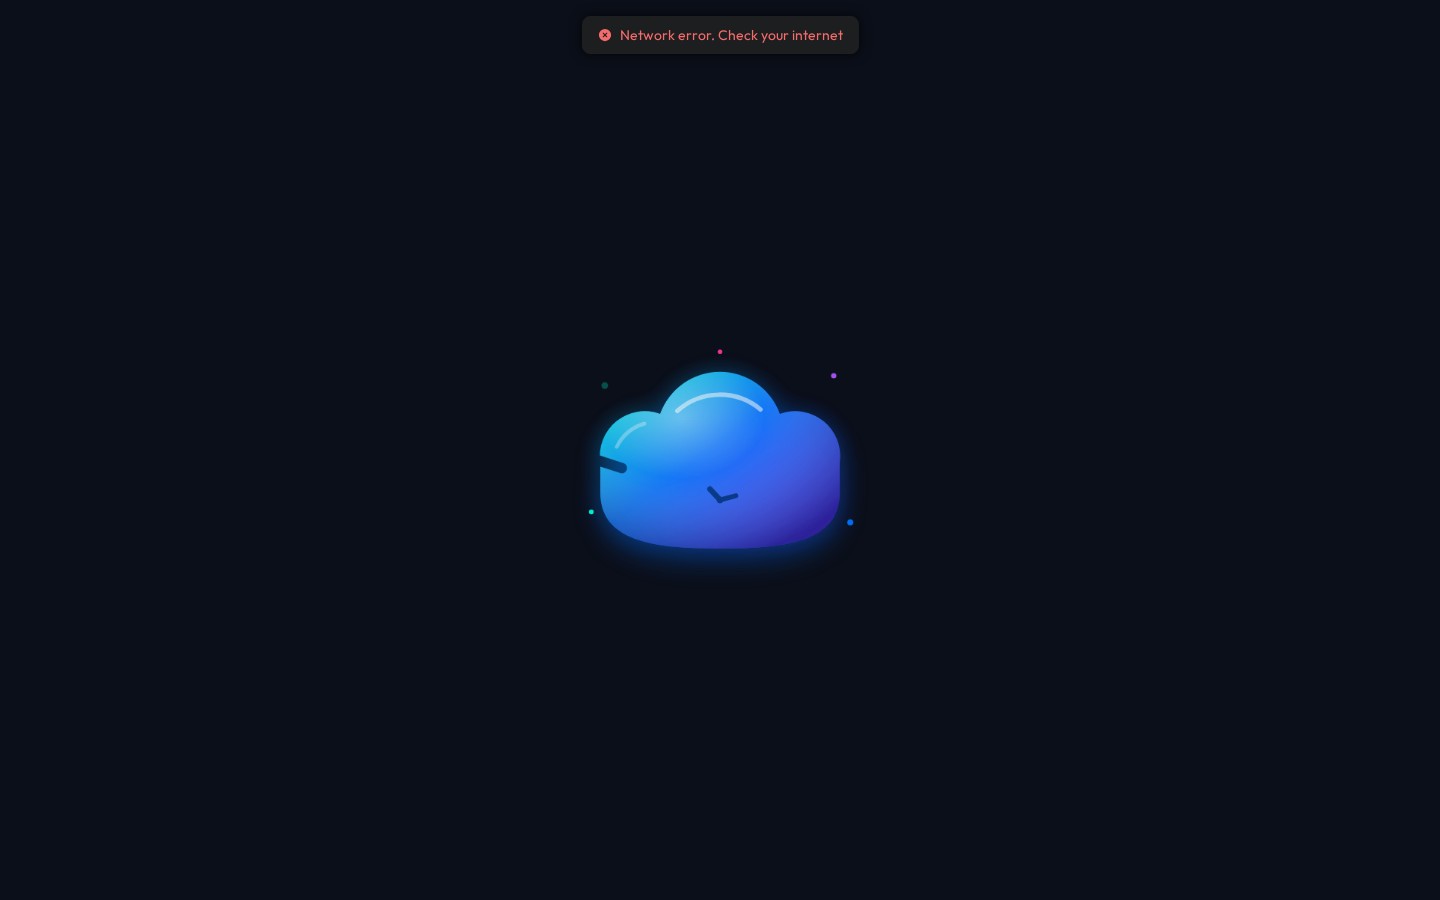
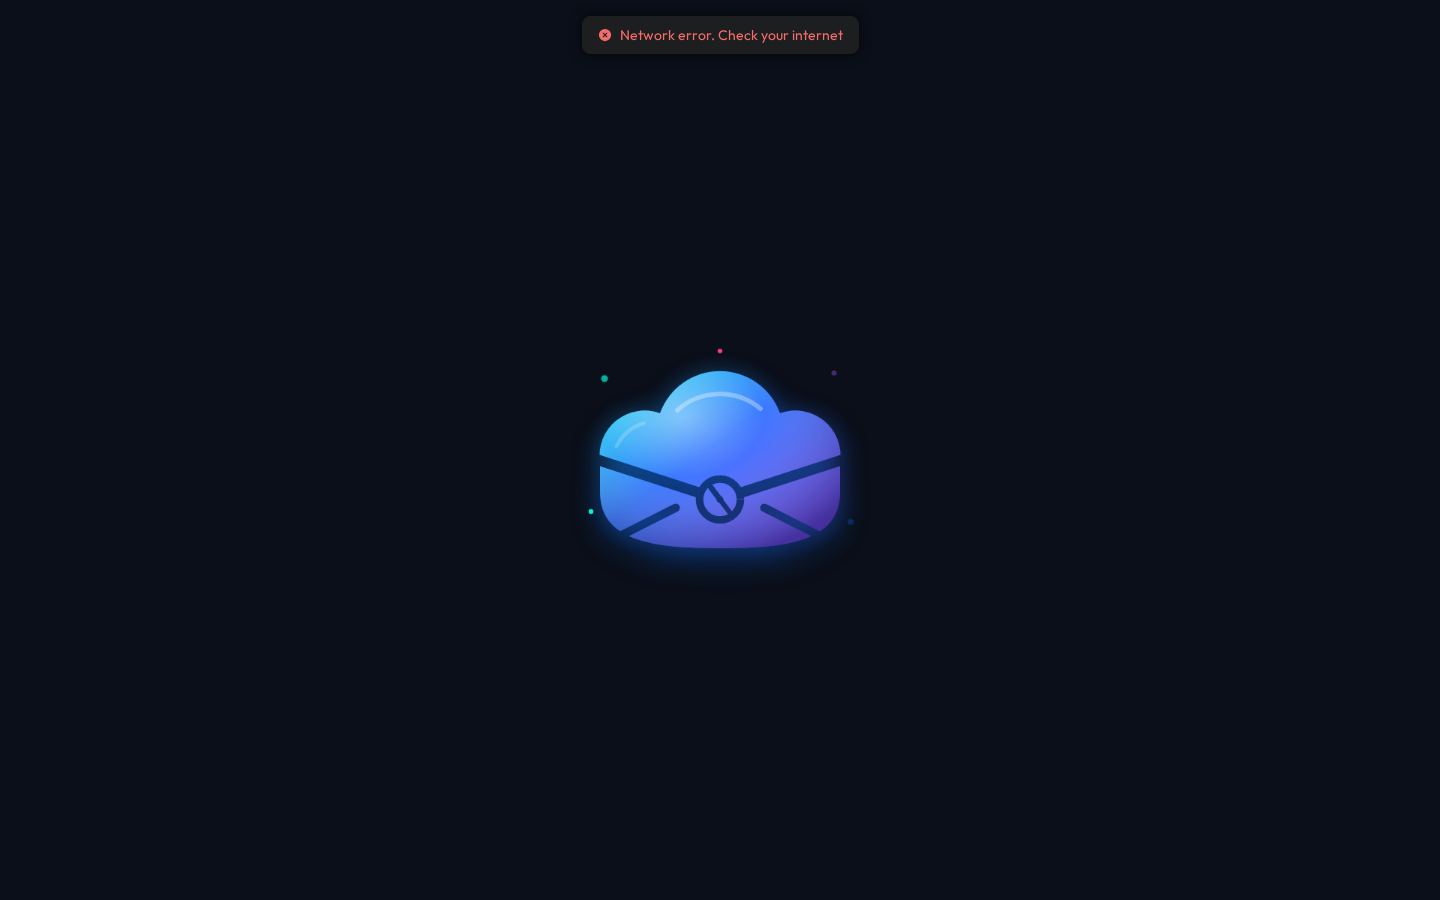
feat: simplify label settings UI, fix sidebar sync, and add automation rules

Changed region(s): [[0.4062, 0.4044, 0.5938, 0.6222]]

diff --git a/mail-vue/src/views/label-setting/index.vue b/mail-vue/src/views/label-setting/index.vue
@@ -3,7 +3,7 @@
     <div class="header-area">
       <div class="header-text">
         <h1 class="page-title">{{ $t('labelSetting') || 'Label Management' }}</h1>
-        <p class="page-desc">Manage your system labels and custom email categories</p>
+        <p class="page-desc">{{ $t('labelSettingDesc') || 'Manage your system labels and custom email categories' }}</p>
       </div>
       <el-button type="primary" size="large" @click="startAdd" class="primary-btn">
         <Icon icon="lucide:plus" width="18" /> {{ $t('newLabel') || 'New Label' }}
@@ -12,10 +12,10 @@
 
     <!-- Default Template Labels -->
     <div class="section">
-      <h2 class="section-title">默认模板 (Default Templates)</h2>
+      <h2 class="section-title">{{ $t('defaultTemplates') || 'Default Templates' }}</h2>
       <div class="modern-list">
         <div class="list-row system-row" v-for="(label, index) in uiStore.defaultLabels" :key="'def-'+index">
-          <div class="drag-handle disabled" title="Default labels cannot be reordered"></div>
+          <div class="drag-handle disabled" :title="$t('cannotReorderDefault') || 'Default labels cannot be reordered'"></div>
           <div class="label-pill-cell">
             <div class="label-pill" :style="{ '--pill-color': label.color }">
               <Icon :icon="label.icon" width="16" />
@@ -23,18 +23,11 @@
             </div>
           </div>
           <div class="visibility-cell">
-            <el-select v-model="label.sidebarVis" size="small" class="vis-select">
-              <el-option label="Show" value="show" />
-              <el-option label="Hide" value="hide" />
-              <el-option label="Show if unread" value="unread" />
-            </el-select>
-          </div>
-          <div class="visibility-cell">
-             <el-switch v-model="label.listVis" size="small" />
+             <el-switch v-model="label.listVis" size="small" :active-text="$t('show') || 'Show'" :inactive-text="$t('hide') || 'Hide'" inline-prompt />
           </div>
           <div class="stats-cell">--</div>
           <div class="actions-cell">
-            <el-button link class="action-btn edit-btn" @click="startEditDefault(index)" title="Edit Color/Icon">
+            <el-button link class="action-btn edit-btn" @click="startEditDefault(index)" :title="$t('edit') || 'Edit'">
               <Icon icon="lucide:pencil" width="16" />
             </el-button>
           </div>
@@ -46,7 +39,7 @@
     <div class="section" style="margin-top: 32px">
       <div class="modern-list" v-if="uiStore.customLabels && uiStore.customLabels.length > 0">
         <div class="list-row custom-row" v-for="(label, index) in uiStore.customLabels" :key="index">
-          <div class="drag-handle" title="Drag to reorder" @click="moveUp(index)">
+          <div class="drag-handle" :title="$t('dragToReorder') || 'Drag to reorder'" @click="moveUp(index)">
             <Icon icon="lucide:grip-vertical" width="18" />
           </div>
           <div class="label-pill-cell">
@@ -56,21 +49,14 @@
             </div>
           </div>
           <div class="visibility-cell">
-            <el-select v-model="label.sidebarVis" size="small" class="vis-select" placeholder="Show">
-              <el-option label="Show" value="show" />
-              <el-option label="Hide" value="hide" />
-              <el-option label="Show if unread" value="unread" />
-            </el-select>
-          </div>
-          <div class="visibility-cell">
-             <el-switch v-model="label.listVis" size="small" />
+             <el-switch v-model="label.listVis" size="small" :active-text="$t('show') || 'Show'" :inactive-text="$t('hide') || 'Hide'" inline-prompt />
           </div>
           <div class="stats-cell">0 {{$t('emails') || 'emails'}}</div>
           <div class="actions-cell">
-            <el-button link class="action-btn edit-btn" @click="startEdit(index)">
+            <el-button link class="action-btn edit-btn" @click="startEdit(index)" :title="$t('edit') || 'Edit'">
               <Icon icon="lucide:pencil" width="16" />
             </el-button>
-            <el-button link class="action-btn delete-btn" @click="confirmDelete(index)">
+            <el-button link class="action-btn delete-btn" @click="confirmDelete(index)" :title="$t('delete') || 'Delete'">
               <Icon icon="lucide:trash-2" width="16" />
             </el-button>
           </div>
@@ -79,8 +65,7 @@
       <div v-else class="empty-state">
         <Icon icon="lucide:tags" width="48" class="empty-icon" />
         <h3>{{ $t('noCustomLabels') || 'No Custom Labels' }}</h3>
-        <p>Create your first label to keep your inbox organized.</p>
-        <el-button plain @click="startAdd">Create Label</el-button>
+        <p>{{ $t('noCustomLabelsDesc') || 'Create your first label to keep your inbox organized.' }}</p>
       </div>
     </div>
 
@@ -111,7 +96,7 @@
           <el-input v-model="form.icon" size="small" placeholder="Or type custom Iconify icon name (e.g. lucide:star)" />
         </div>
         <div class="form-group">
-          <label>Color</label>
+          <label>{{ $t('color') || 'Color' }}</label>
           <div class="swatches">
             <div class="swatch" 
                  v-for="color in presetColors" :key="color"
@@ -122,6 +107,24 @@
             </div>
             <div class="swatch custom-color-picker">
               <el-color-picker v-model="form.color" size="small" />
+            </div>
+          </div>
+        </div>
+        
+        <!-- Rules Section -->
+        <div class="form-group" style="margin-top: 8px;">
+          <label>{{ $t('rules') || 'Automation Rules' }}</label>
+          <p style="font-size: 12px; color: var(--text-muted); margin: 0 0 8px 0; line-height: 1.4;">
+            {{ $t('rulesDesc') || 'Emails from these senders or domains will automatically receive this label.' }}
+          </p>
+          <div style="display: flex; gap: 8px; margin-bottom: 8px;">
+            <el-input v-model="newRule" size="small" :placeholder="$t('addRulePlaceholder') || 'e.g. @gmail.com or user@test.com'" @keyup.enter="addRule" />
+            <el-button size="small" @click="addRule"><Icon icon="lucide:plus" width="14" /></el-button>
+          </div>
+          <div v-if="form.rules && form.rules.length > 0" class="rules-list" style="display: flex; flex-direction: column; gap: 4px; max-height: 150px; overflow-y: auto; padding-right: 4px;">
+            <div v-for="(rule, rIdx) in form.rules" :key="rIdx" style="display: flex; align-items: center; justify-content: space-between; padding: 4px 8px; background: var(--bg-base); border-radius: 4px; border: 1px solid var(--border-subtle); font-size: 12px; color: var(--text-primary);">
+              <span>{{ rule }}</span>
+              <el-button link size="small" @click="removeRule(rIdx)" style="color: var(--danger);"><Icon icon="lucide:x" width="14" /></el-button>
             </div>
           </div>
         </div>
@@ -194,12 +197,14 @@ normalizeLabels()
 const isEditorOpen = ref(false)
 const editIndex = ref(-1)
 const isEditingDefault = ref(false)
-const form = ref({ name: '', icon: 'ic:baseline-label', color: '#3b82f6', parent: '', sidebarVis: 'show', listVis: true })
+const form = ref({ name: '', icon: 'ic:baseline-label', color: '#3b82f6', parent: '', sidebarVis: 'show', listVis: true, rules: [] })
+const newRule = ref('')
 
 const startAdd = () => {
   editIndex.value = -1
   isEditingDefault.value = false
-  form.value = { name: '', icon: 'ic:baseline-label', color: presetColors[5], parent: '', sidebarVis: 'show', listVis: true }
+  form.value = { name: '', icon: 'ic:baseline-label', color: presetColors[5], parent: '', sidebarVis: 'show', listVis: true, rules: [] }
+  newRule.value = ''
   isEditorOpen.value = true
 }
 
@@ -207,6 +212,8 @@ const startEdit = (index) => {
   editIndex.value = index
   isEditingDefault.value = false
   form.value = { ...uiStore.customLabels[index] }
+  if (!form.value.rules) form.value.rules = []
+  newRule.value = ''
   isEditorOpen.value = true
 }
 
@@ -214,7 +221,26 @@ const startEditDefault = (index) => {
   editIndex.value = index
   isEditingDefault.value = true
   form.value = { ...uiStore.defaultLabels[index] }
+  if (!form.value.rules) form.value.rules = []
+  newRule.value = ''
   isEditorOpen.value = true
+}
+
+const addRule = () => {
+  const rule = newRule.value.trim().toLowerCase()
+  if (rule) {
+    if (!form.value.rules) form.value.rules = []
+    if (!form.value.rules.includes(rule)) {
+      form.value.rules.push(rule)
+    }
+    newRule.value = ''
+  }
+}
+
+const removeRule = (index) => {
+  if (form.value.rules) {
+    form.value.rules.splice(index, 1)
+  }
 }
 
 const saveLabel = () => {
@@ -394,12 +420,17 @@ const moveUp = (index) => {
 }
 
 .action-btn {
-  opacity: 0;
+  opacity: 1;
+  color: var(--text-muted);
   transition: opacity 0.2s, color 0.2s;
 }
 
 .list-row:hover .action-btn {
-  opacity: 1;
+  color: var(--text-secondary);
+}
+
+.action-btn:hover {
+  color: var(--accent-primary) !important;
 }
 
 .action-btn.delete-btn:hover {

diff --git a/mail-vue/src/layout/aside/index.vue b/mail-vue/src/layout/aside/index.vue
@@ -57,13 +57,13 @@
             </div>
           </div>
           <template v-for="(label, idx) in uiStore.defaultLabels" :key="'def-'+idx">
-            <div class="nav-item" v-if="label.sidebarVis !== 'hide'" :title="label.name">
+            <div class="nav-item" v-if="label.listVis !== false" :title="label.name">
               <span class="nav-ic-wrap"><Icon :icon="label.icon || 'ic:baseline-label'" width="20" height="20" :style="{ color: label.color || 'inherit' }" /></span>
               <span class="nav-label" :style="{ color: label.color || 'inherit' }">{{ label.name }}</span>
             </div>
           </template>
           <template v-for="(label, idx) in uiStore.customLabels" :key="'cust-'+idx">
-            <div class="nav-item" v-if="label.sidebarVis !== 'hide'" :title="label.name || label">
+            <div class="nav-item" v-if="label.listVis !== false" :title="label.name || label">
               <span class="nav-ic-wrap"><Icon :icon="label.icon || 'ic:baseline-label'" width="20" height="20" :style="{ color: label.color || 'inherit' }" /></span>
               <span class="nav-label" :style="{ color: label.color || 'inherit' }">{{ label.name || label }}</span>
             </div>
